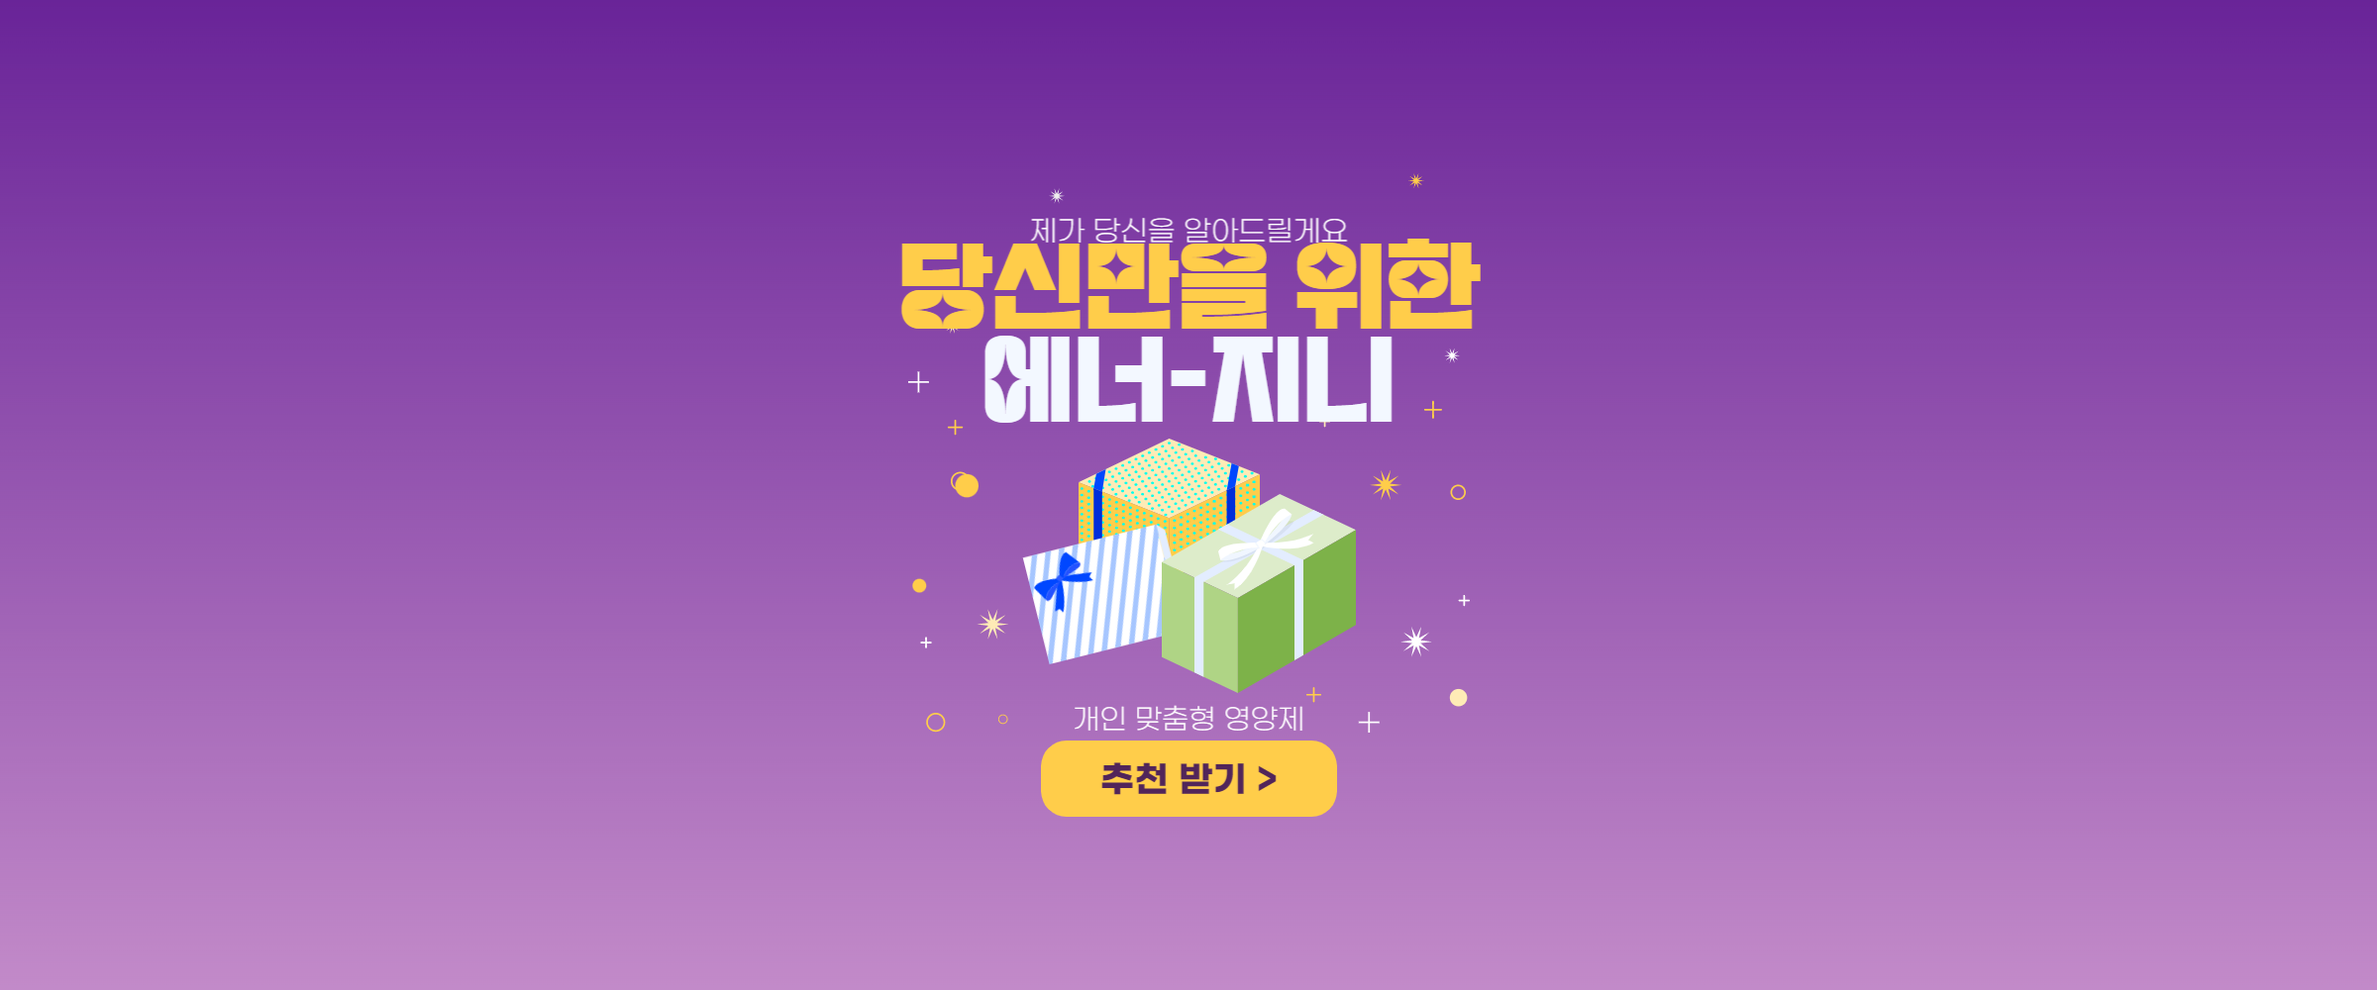
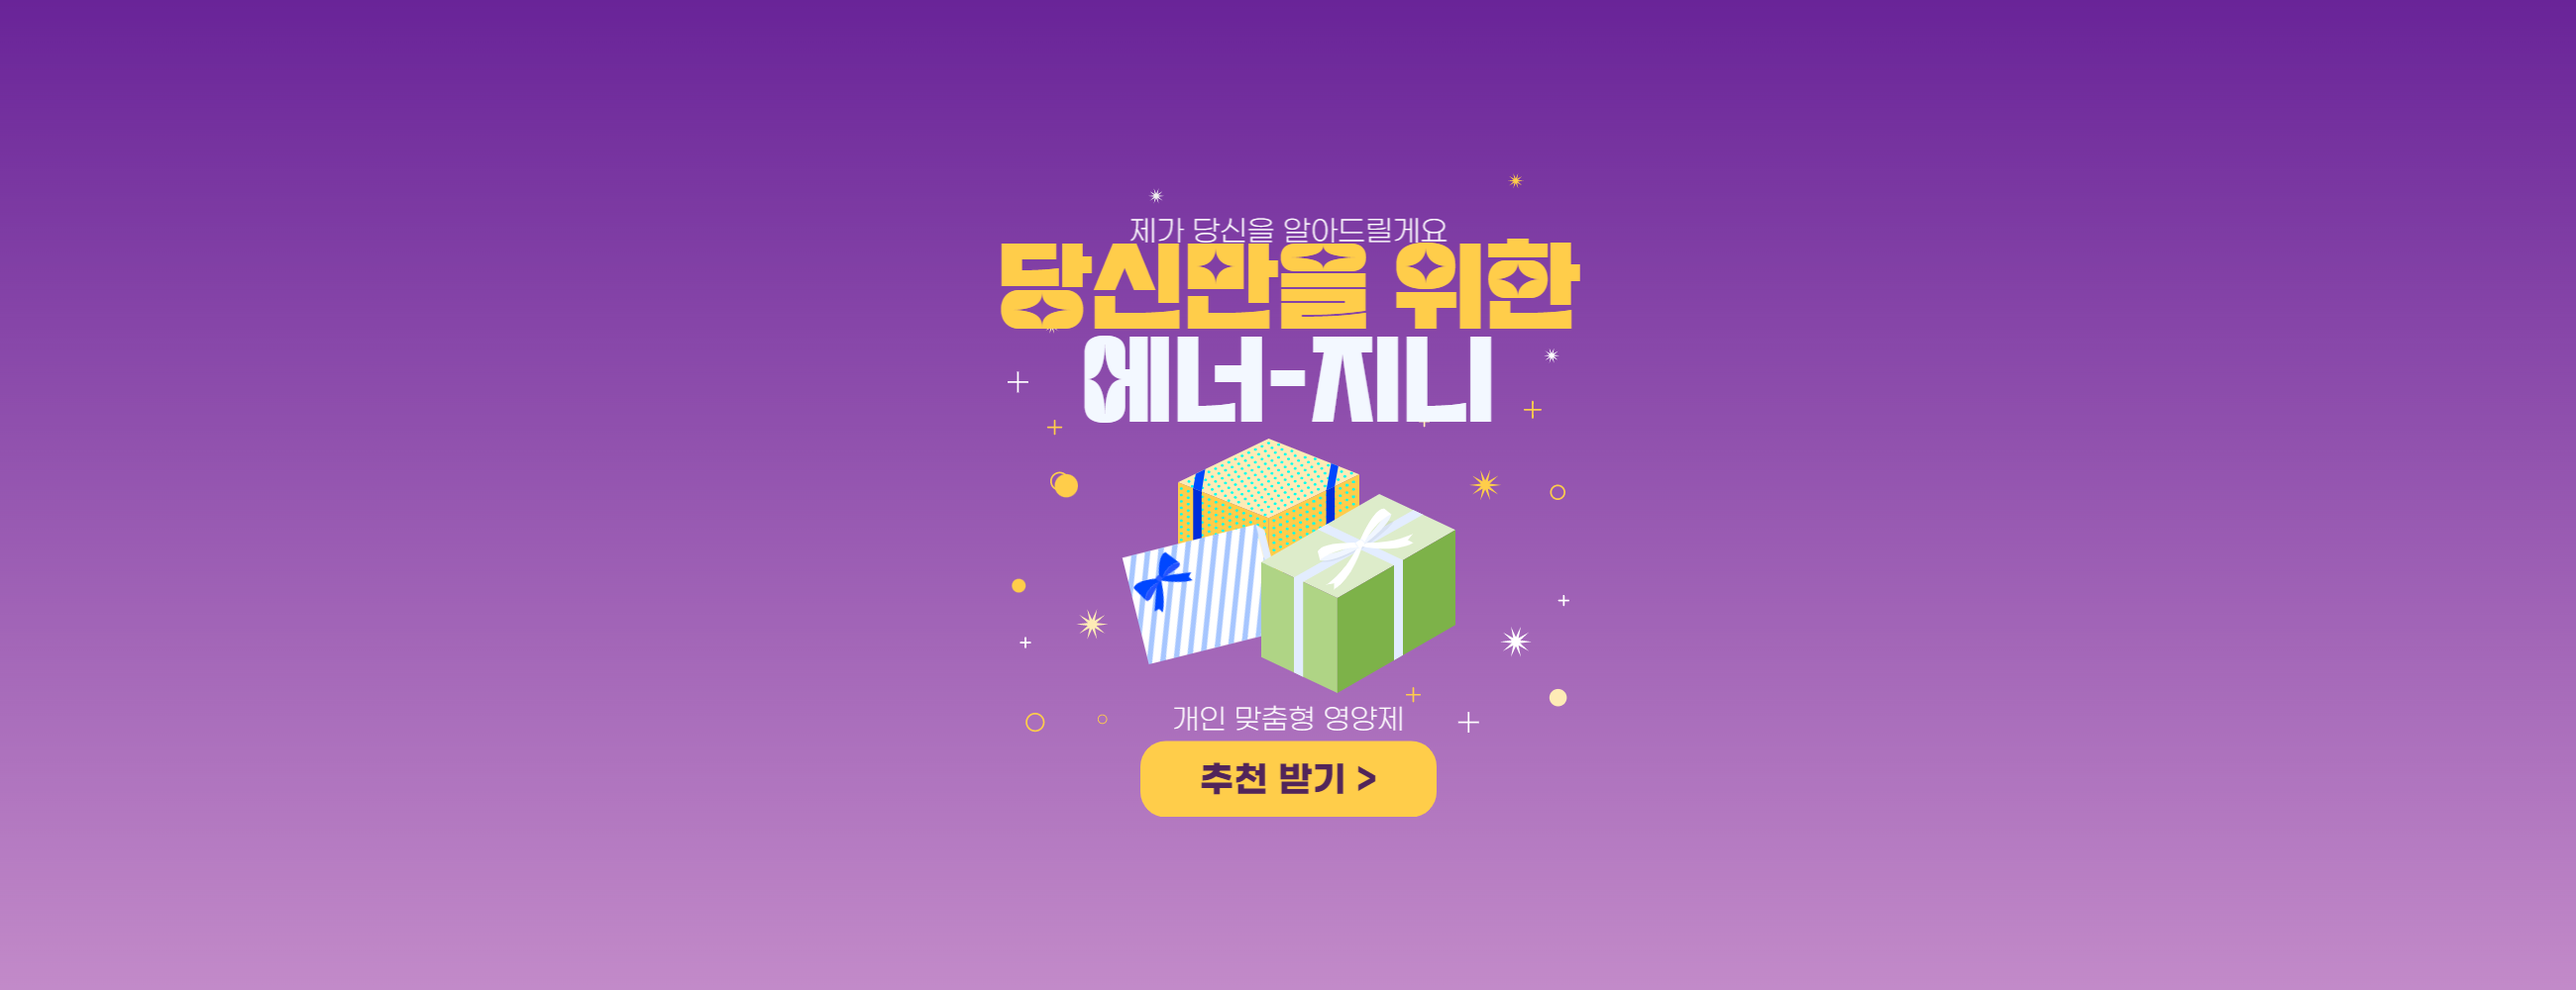
style: [서예인] 캐러셀 이미지 변경 [HEALTH-FOOD-WEB-UI-7]

diff --git a/src/components/main/CarouselForm.vue b/src/components/main/CarouselForm.vue
@@ -72,7 +72,7 @@ export default {
 		position: absolute;
 		left: 0;
 		top: 0;
-		object-fit: cover;
+		object-fit: contain;
 	}
 	.main-top-promotion>.container {
 		position: relative;
